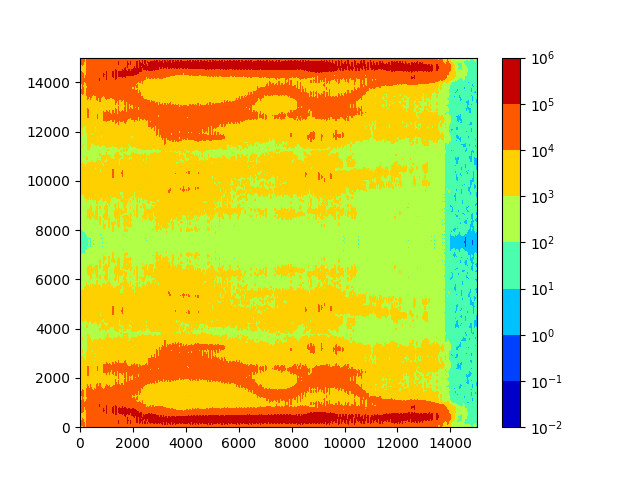
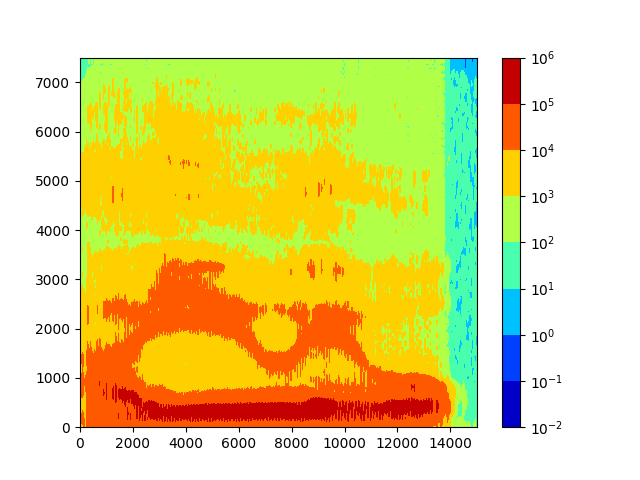
y_max = L / 2 is ok

diff --git a/dgt.py b/dgt.py
@@ -101,7 +101,7 @@ fig5, ax5 = plt.subplots()
 
 # プロット用パラメータ
 x_max = L
-y_max = L
+y_max = L / 2
 X = X[0:(int)(y_max/b), 0:(int)(x_max/a)]
 print(len(X))
 print(np.linspace(0, y_max, N))
@@ -120,7 +120,7 @@ ax3.plot(w)
 X2 = db(X, 2e-5)
 
 # 解析結果
-c = ax5.contourf(np.linspace(0, x_max, (int)(x_max/a)), np.linspace(0, fs, (int)(y_max/b)), np.abs(X2), 50, cmap='jet')
+c = ax5.contourf(np.linspace(0, x_max, (int)(x_max/a)), np.linspace(0, y_max, (int)(y_max/b)), np.abs(X2), 50, cmap='jet')
 c = ax4.contourf(np.linspace(0, x_max, (int)(x_max/a)), np.linspace(0, y_max, (int)(y_max/b)), np.abs(X), 20, locator=ticker.LogLocator(), cmap='jet')
 fig4.colorbar(c)
 
